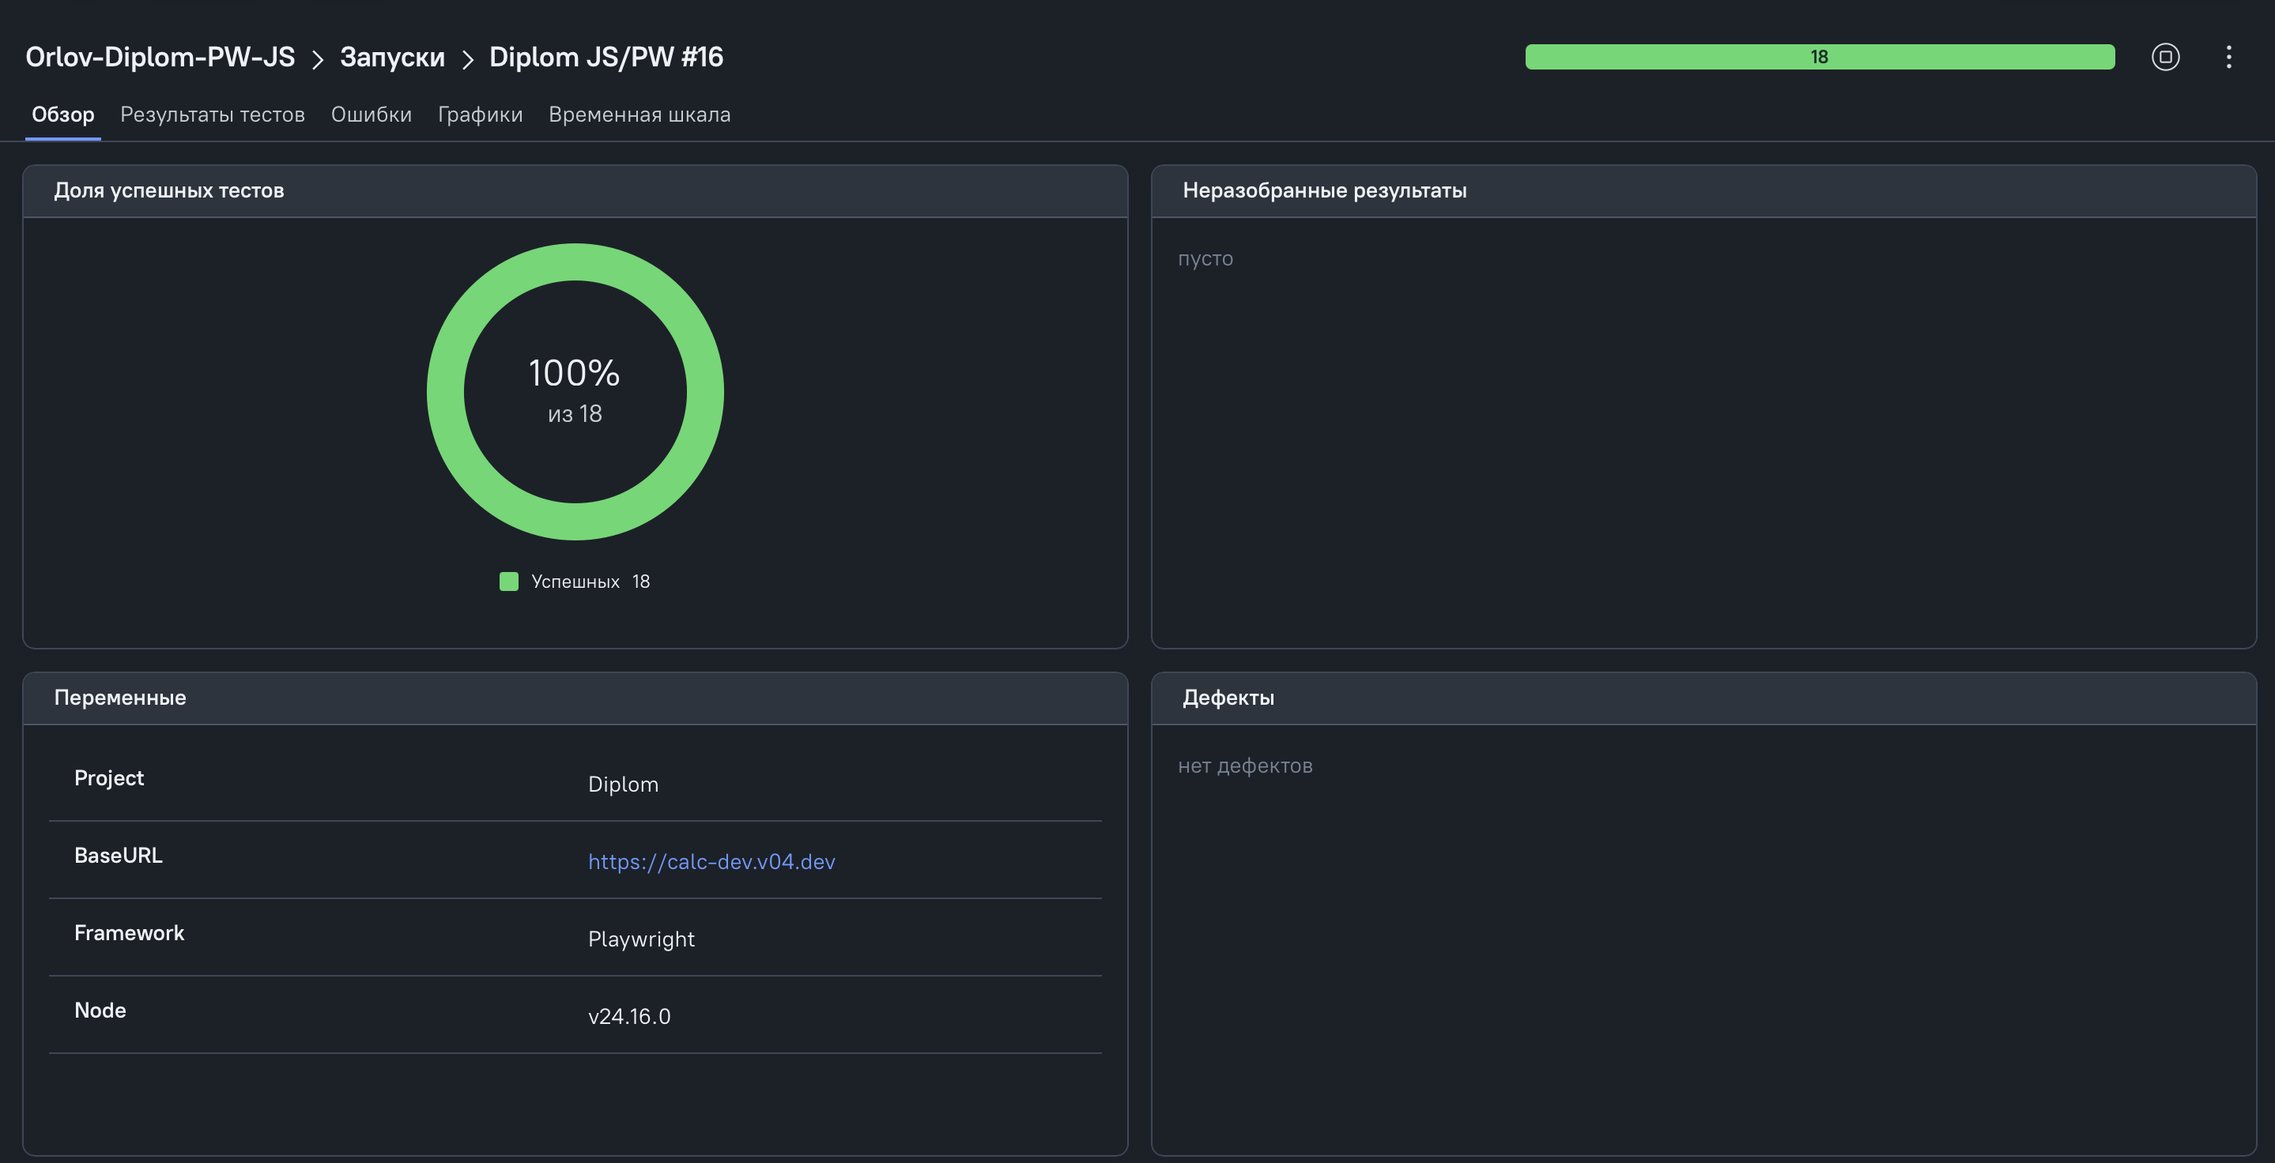
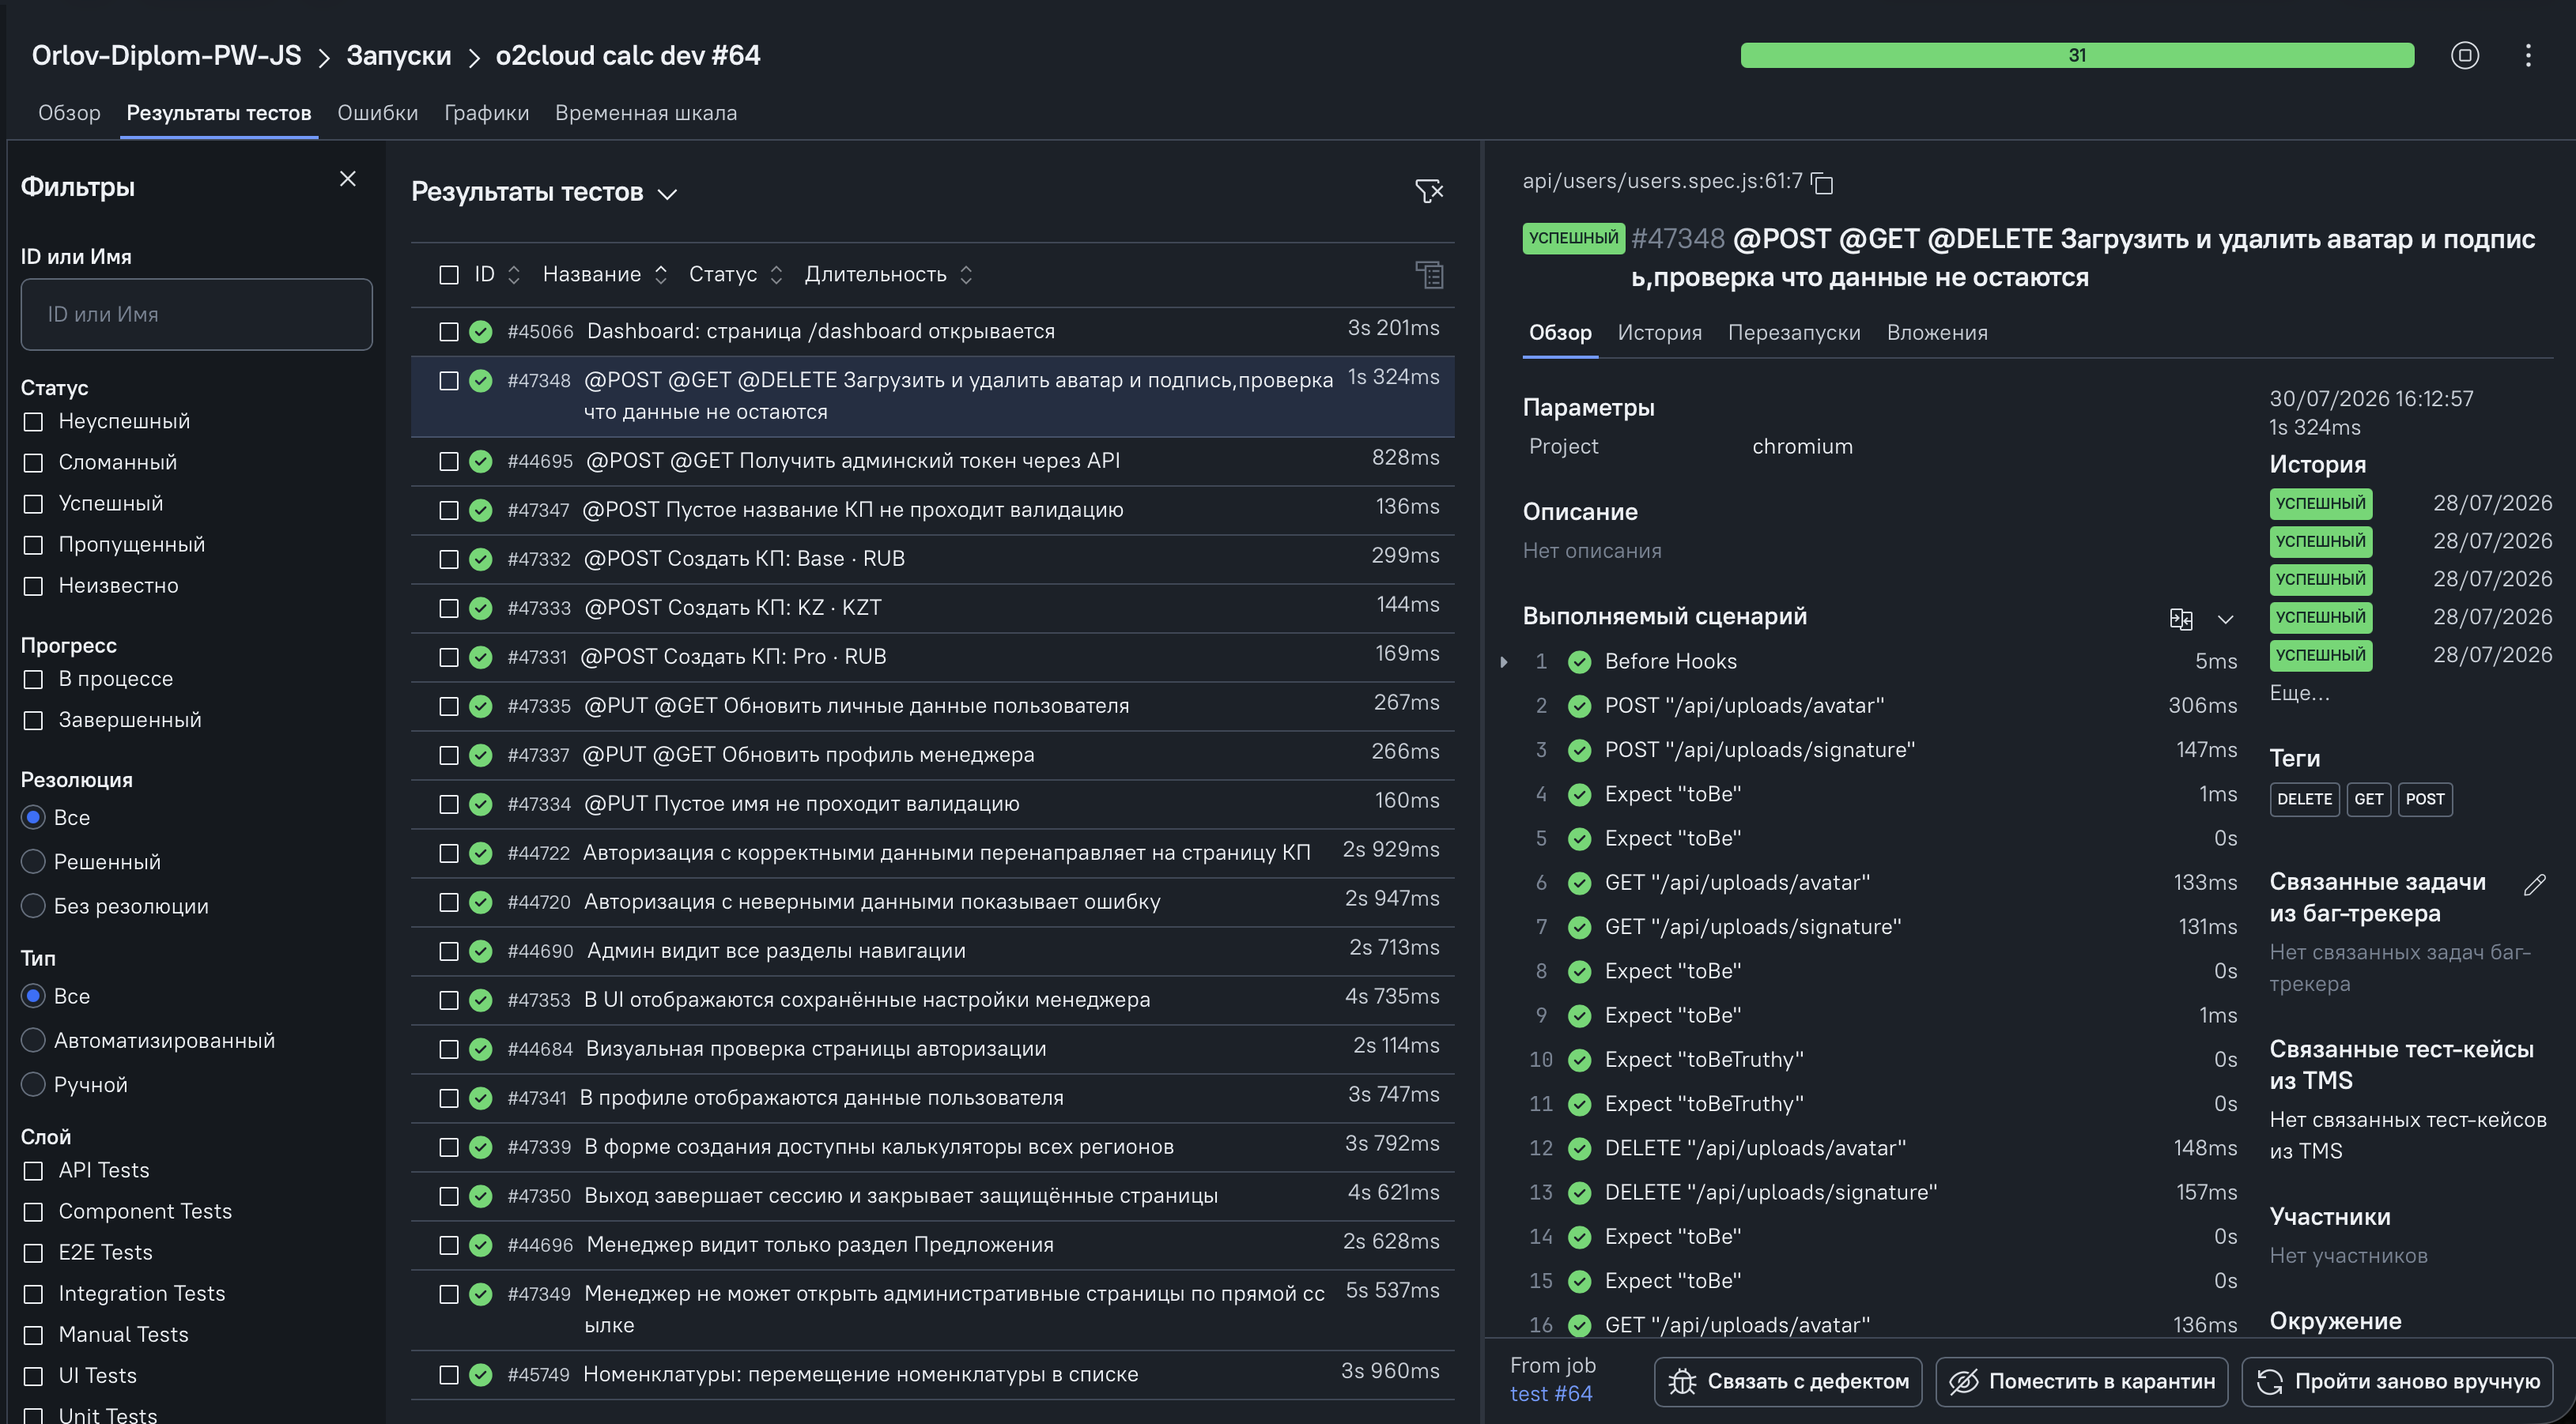
upd image tg and allure

diff --git a/README.md b/README.md
@@ -341,6 +341,12 @@ ALLURE_TOKEN
 
 ### Telegram Notification
 
+Полное сообщение:
+
+![Telegram Notification Message](docs/screenshots/telegram-notification-message.png)
+
+Подробная диагностика:
+
 ![Telegram Notification](docs/screenshots/telegram-notification.png)
 
 ## Полезные команды
